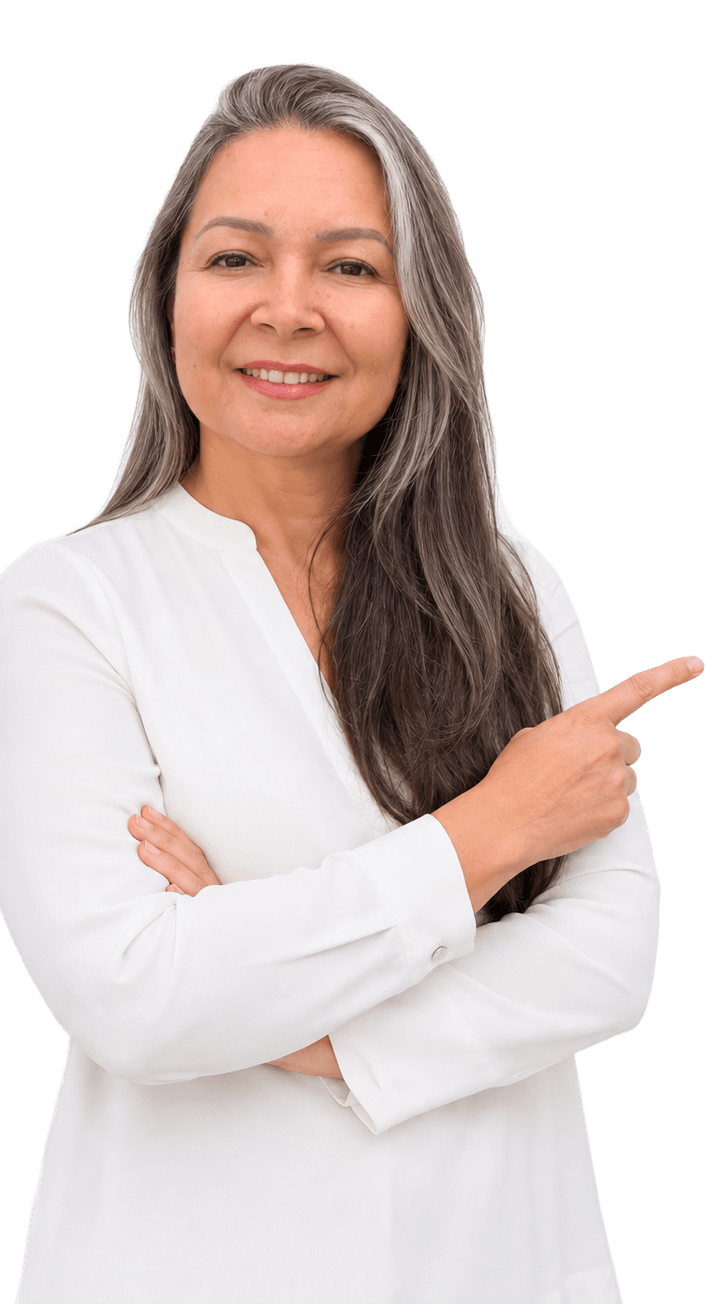
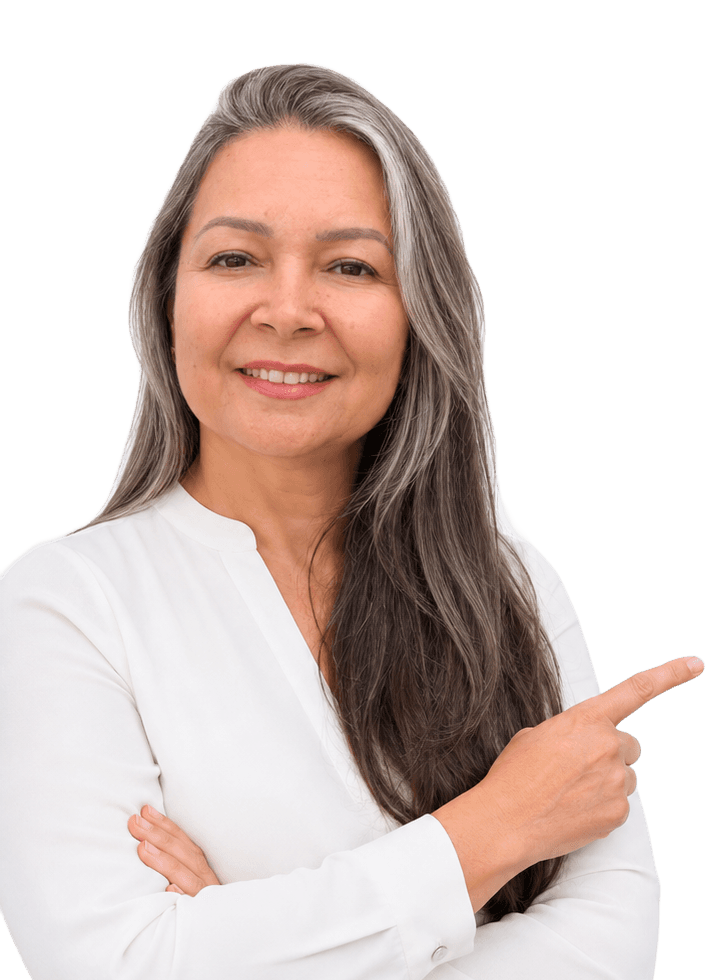
Aumenta a foto da Tania na seção Modalidades, sobrepondo os cards
No desktop, a foto fica maior e mais próxima da faixa "MODALIDADES",
com o texto deslocado para a direita para abrir espaço. Recorta a
imagem de origem mais justa (sem a cauda longa de cabelo) para a
ampliação ficar proporcional.

diff --git a/assets/css/style.css b/assets/css/style.css
@@ -518,7 +518,28 @@ section { padding: 96px 0; }
 @media (max-width: 480px) {
   .modalidades__photo { width: 68px; }
 }
+@media (min-width: 721px) {
+  .modalidades__head {
+    display: block;
+    position: relative;
+    padding-left: 300px;
+  }
+  .modalidades__photo {
+    position: absolute;
+    left: 0;
+    top: -18px;
+    width: 280px;
+    z-index: 1;
+  }
+  .modalidades__head .section-head {
+    position: relative;
+    z-index: 2;
+    padding-bottom: 0;
+  }
+}
 .modal-grid {
+  position: relative;
+  z-index: 2;
   display: grid;
   grid-template-columns: repeat(3, 1fr);
   gap: 20px;
